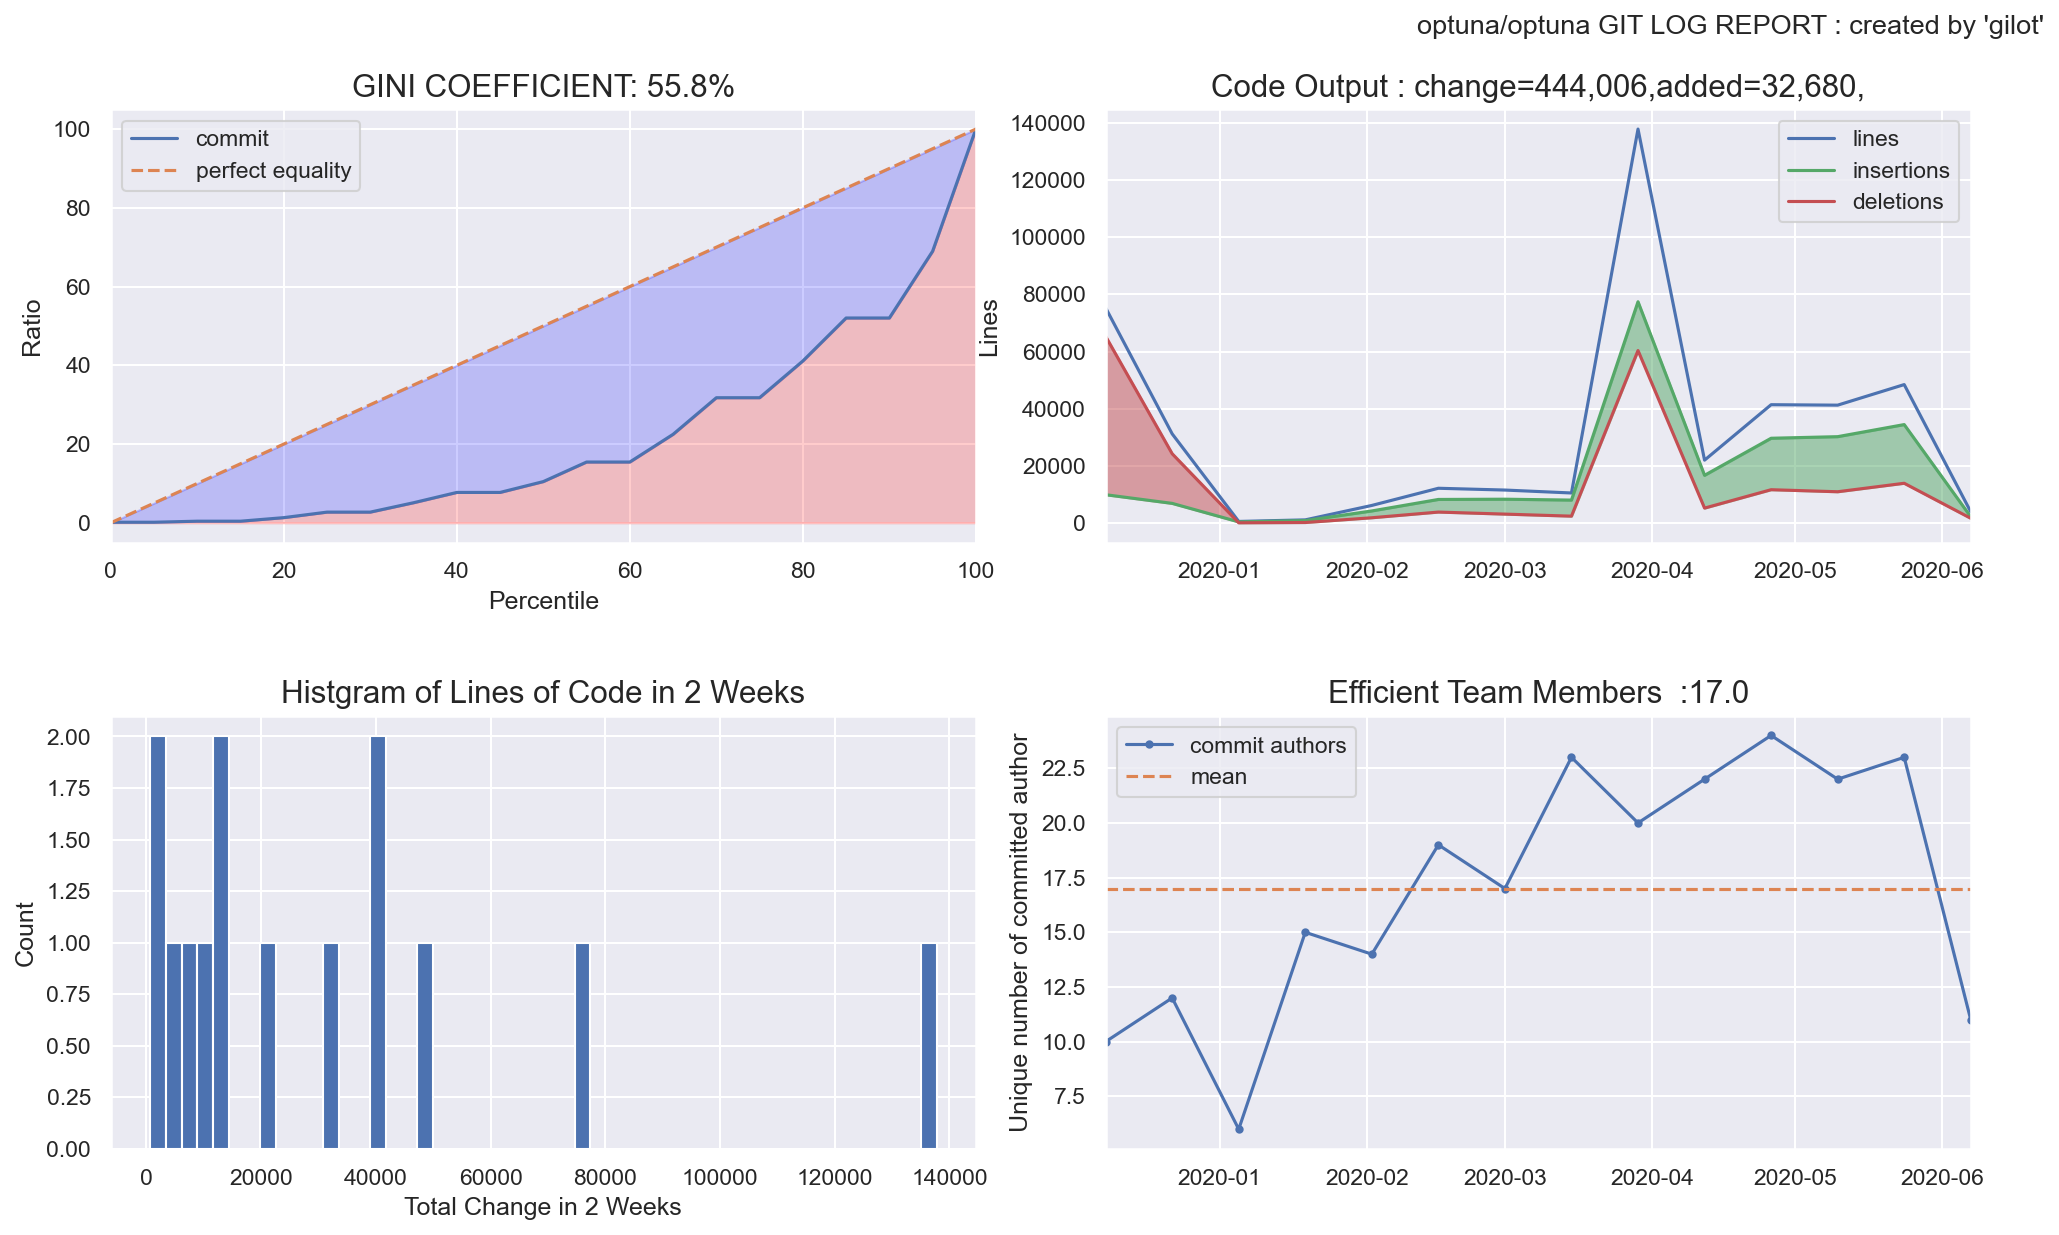
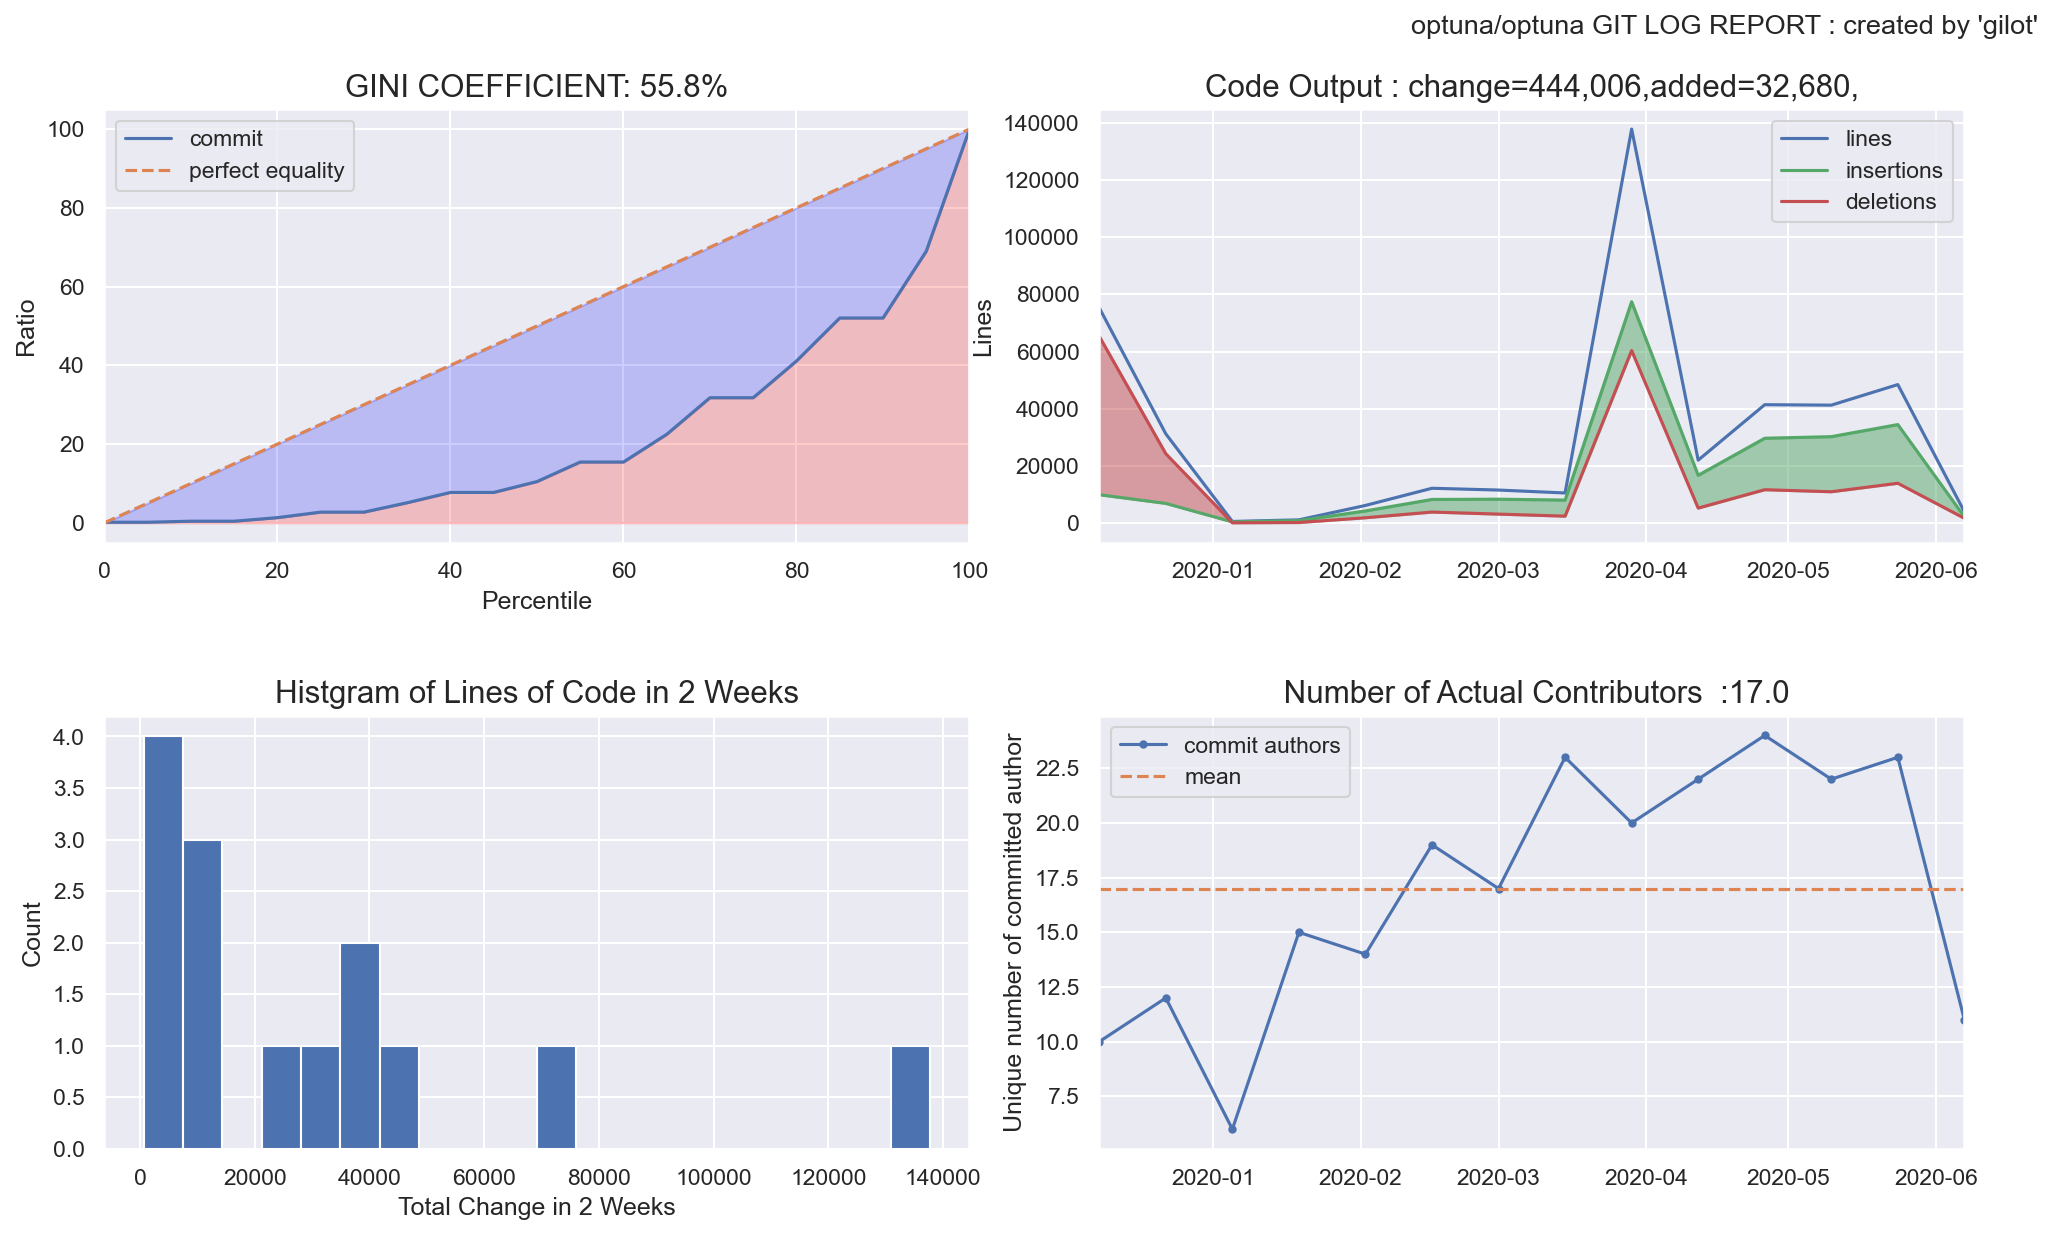
module and package

diff --git a/src/gilot/plot.py b/src/gilot/plot.py
@@ -1,55 +1,19 @@
 
 import re
-import git
 import datetime
-import time
 import numpy as np
 import pandas as pd
 import matplotlib.pyplot as plt
 import seaborn as sns
 
 sns.set()
-from dateutil.relativedelta import relativedelta
-
-DF_NULL = pd.DataFrame([],columns = ["date","hexsha","author","insertions","deletions","lines","files"])
-DF_NULL.set_index("date", inplace=True)
 
 TITLE_SIZE = 15
 
-def dateformat(date) :
-    return datetime.datetime.fromtimestamp(date).strftime("%Y-%m-%d %H:%M:%S")
-
-def commit_to_dict(commit):
-    # TODO 拡張子ごとにフィルタできたりしたほうがYAMLの編集とか入らないからいいだろうか。
-    return dict(date=dateformat(commit.committed_date),
-        hexsha=commit.hexsha,  author=commit.author.name, **commit.stats.total)
-
-def log(repo, branch="origin/HEAD", since=datetime.date.today() - relativedelta(months=6)):
-    return [commit_to_dict(c) for c in repo.iter_commits(branch, since= since )]
-
-def _df_index(df):
-    df.date = pd.to_datetime(df.date)
-    df.set_index("date",inplace=True)
-    return df
-    
-def dataframe(r,**kwargs) :
-    logs = log(r, **kwargs)
-    df = pd.DataFrame.from_records(logs)
-    if (len(df) == 0):
-        return DF_NULL
-    return _df_index(df)
-
-def from_csv(r):
-    df = pd.read_csv(r)
-    return _df_index(df)
-
-def from_csvs(iolist):
-    return pd.concat([ from_csv(i) for i in iolist ])
 
 def gini(x):
     # Mean absolute difference
     mad = np.abs(np.subtract.outer(x, x)).mean()
-    # Relative mean absolute difference
     rmad = mad/np.mean(x)
     # Gini coefficient
     return 0.5 * rmad
@@ -67,7 +31,6 @@ def lorenz(v):
 def _ts_to_string(ts):
     pattern = r"(\d+)([a-zA-Z])"
     r = re.match(pattern,ts)
-    (r.group(1),r.group(2))
     MAP = dict(W="Weeks",D="Days",M="Months",Y="Years")
     unit = MAP[r.group(2).upper()]
     count = r.group(1)
@@ -98,7 +61,7 @@ def _plot_gini(df, plt):
 def _plot_hist(df, plt,ts):
     v = df.lines.values
     timeslot = _ts_to_string(ts)
-    plt.hist(v, bins=50)
+    plt.hist(v, bins=20)
     plt.title(f"Histgram of Lines of Code in {timeslot}", fontsize=TITLE_SIZE)
 
     plt.xlabel(f"Total Change in {timeslot}")
@@ -109,7 +72,7 @@ def _plot_team(df, plt):
     date = df.index.values   
     team = df["team"]
     mean = team.mean()
-    plt.title( f"Efficient Team Members  :{mean :.1f}" ,fontsize=TITLE_SIZE)
+    plt.title( f" Number of Actual Contributors  :{mean :.1f}" ,fontsize=TITLE_SIZE)
     plt.plot(date,team,marker=".",label="commit authors")
     plt.plot(date, np.ones(len(team)) * mean, "--", label="mean")
     plt.xlim(date[0], date[-1])

diff --git a/src/gilot/log.py b/src/gilot/log.py
@@ -1,0 +1,46 @@
+
+
+import git
+import datetime
+import numpy as np
+import pandas as pd
+
+from dateutil.relativedelta import relativedelta
+
+DF_NULL = pd.DataFrame([],columns = ["date","hexsha","author","insertions","deletions","lines","files"])
+DF_NULL.set_index("date", inplace=True)
+
+
+
+def dateformat(date) :
+    return datetime.datetime.fromtimestamp(date).strftime("%Y-%m-%d %H:%M:%S")
+
+def commit_to_dict(commit):
+    # TODO 拡張子ごとにフィルタできたりしたほうがYAMLの編集とか入らないからいいだろうか。
+    return dict(date=dateformat(commit.committed_date),
+        hexsha=commit.hexsha,  author=commit.author.name, **commit.stats.total)
+
+def log(repo, branch="origin/HEAD", since=datetime.date.today() - relativedelta(months=6)):
+    return [commit_to_dict(c) for c in repo.iter_commits(branch, since= since )]
+
+def _df_index(df):
+    df.date = pd.to_datetime(df.date)
+    df.set_index("date",inplace=True)
+    return df
+    
+def from_repo(r,**kwargs) :
+    logs = log(r, **kwargs)
+    df = pd.DataFrame.from_records(logs)
+    if (len(df) == 0):
+        return DF_NULL
+    return _df_index(df)
+
+def from_dir(r,**kwargs) :
+    return from_repo(git.Repo(r),**kwargs)
+
+def from_csv(r):
+    df = pd.read_csv(r)
+    return _df_index(df)
+
+def from_csvs(iolist):
+    return pd.concat([ from_csv(i) for i in iolist ])

diff --git a/setup.py b/setup.py
@@ -1,14 +1,17 @@
 from setuptools import setup
+from setuptools import find_packages
 
 setup(
-    install_requires=["GitPython","datetime","seaborn","pandas","numpy","matplotlib","argparse"],
+    install_requires=["GitPython", "datetime", "seaborn", "pandas", "numpy", "matplotlib", "argparse"],
+    packages=find_packages("src"),
+    package_dir={"": "src"},
     entry_points={
         "console_scripts": [
-            "gilot = app:main"
+            "gilot = gilot.app:main"
         ]
     },
     name="gilot",
-    version="0.1.0",
+    version="0.1.1",
     license="MIT LICENSE",
     description="a git log visual analyzer",
     author="hirokidaichi",

diff --git a/src/gilot/app.py b/src/gilot/app.py
@@ -24,7 +24,7 @@ gilot is a tool for analyzing and visualizing git logs
 
 
 def handle_log(args):
-    df = gilot.dataframe(args.repo, branch=args.branch, since=args.since or args.month)
+    df = gilot.from_repo(args.repo, branch=args.branch, since=args.since or args.month)
     df.to_csv(args.output)
 
 def handle_plot(args):
@@ -110,4 +110,5 @@ def main():
 
 
 if __name__ == "__main__":
+    gilot.hello()
     main()

diff --git a/src/gilot/__init__.py b/src/gilot/__init__.py
@@ -1,0 +1,6 @@
+
+#from . import gilot
+
+from .log import from_csv,from_csvs,from_repo,from_dir
+from .plot import plot
+
